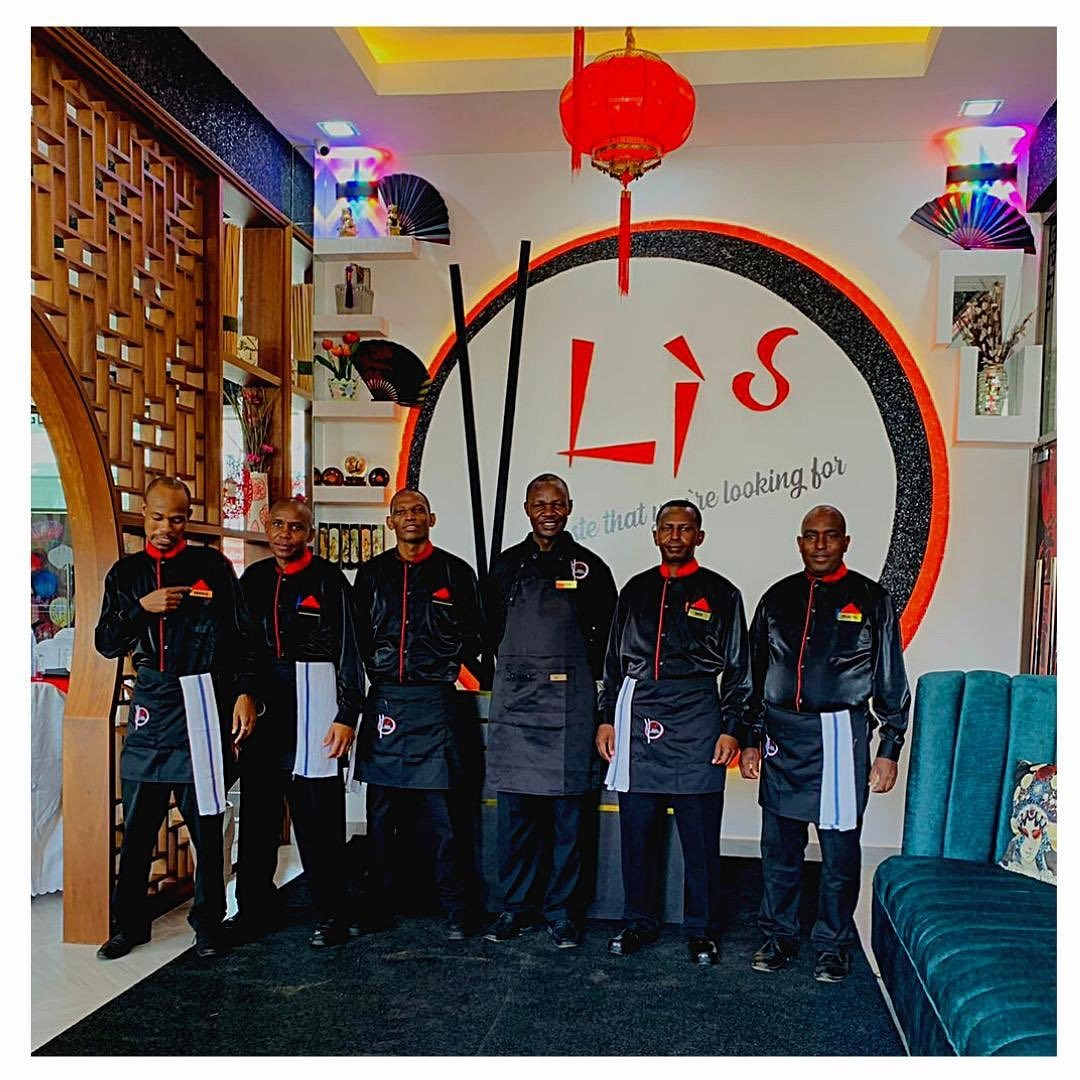
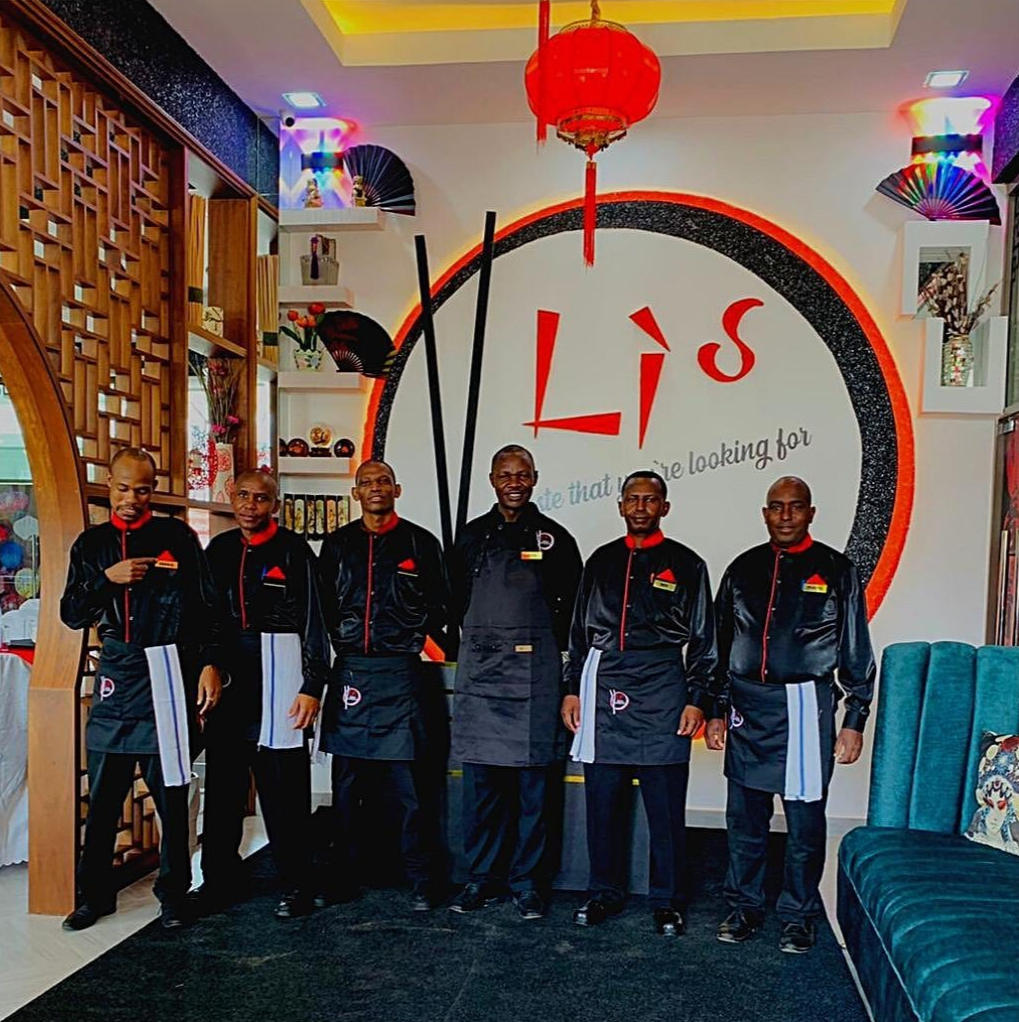
changed the hero image for the about page

diff --git a/src/sections/about/hero.tsx b/src/sections/about/hero.tsx
@@ -7,7 +7,7 @@ export default function AboutHero() {
     <section className="relative h-96 overflow-hidden">
       <div className="absolute inset-0 bg-cover bg-center" />
       <Image
-        src="/about-hero.jpg"
+        src="/team4.jpg"
         alt="Li's Chinese about us image"
         fill
         className="object-cover"
@@ -19,8 +19,8 @@ export default function AboutHero() {
             Our Story
           </h1>
           <p className="text-xl text-muted-foreground font-chivo max-w-3xl mx-auto">
-            Discover the passion, tradition, and innovation that make
-            Li&apos;s Chinese Restaurant a culinary destination
+            Discover the passion, tradition, and innovation that make Li&apos;s
+            Chinese Restaurant a culinary destination
           </p>
         </div>
       </div>
